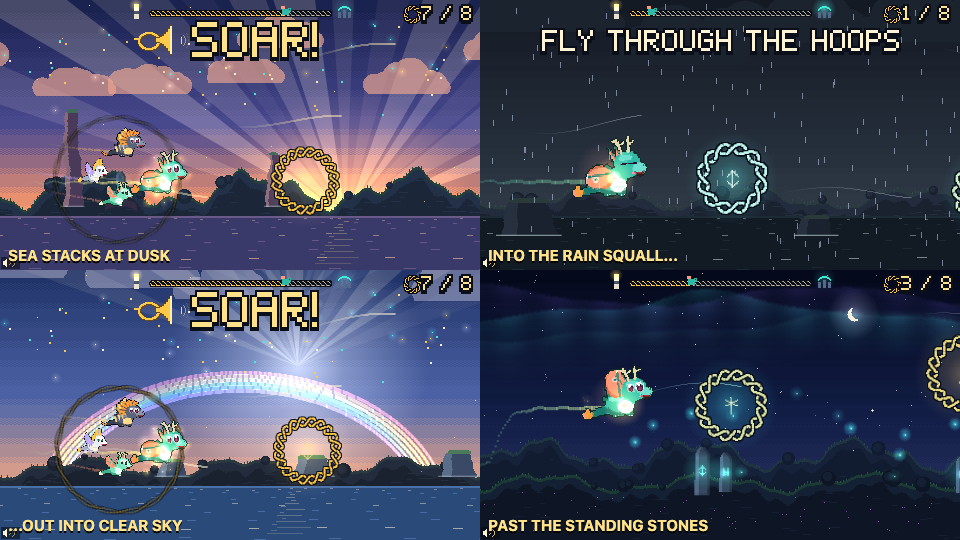
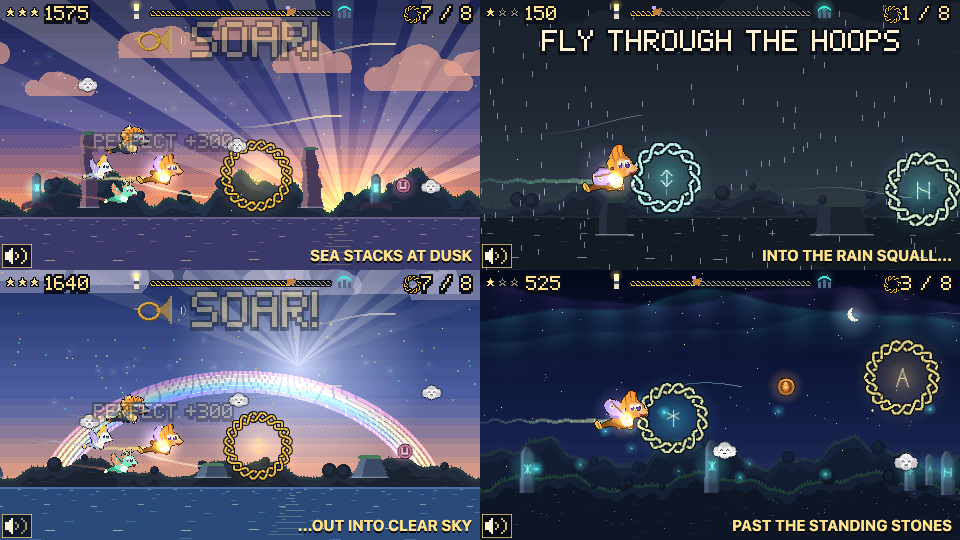
docs, pitch images and notes for levels, enemies, power-ups, score and the celebration

diff --git a/README.md b/README.md
@@ -1,8 +1,10 @@
 # Emberwing: The Way Home
 
-A 40-second lobby interactive for the Walla Walla Symphony's **Symphonicon** (Nov 5, Cordiner Hall), paired with *From the Motion Picture How to Train Your Dragon* (John Powell), played in Act II by the Walla Walla Symphony Youth Orchestra.
+A 45-second lobby interactive for the Walla Walla Symphony's **Symphonicon** (Nov 5, Cordiner Hall), paired with *From the Motion Picture How to Train Your Dragon* (John Powell), played in Act II by the Walla Walla Symphony Youth Orchestra.
 
-Emberwings are a kind of small dragon. Every guest rescues a different one: a young emberwing with its own name, colors, wings, horns, tail and personality (Pip sneezes sparks, Juniper loves loops, Bramble is shy at first...) is blown off course in a storm. The guest is the lighthouse keeper. Their light finds the dragon in the fog, teaches it to fly, and guides it home. Every dragon that makes it home joins the flock for the rest of the evening, and its flight path becomes a ribbon in the aurora. The flock on screen is always exactly the dragons people brought home tonight, and every 8th one gets a celebration.
+Emberwings are a kind of small dragon. Every guest rescues a different one: a young emberwing with its own name, colors, wings, horns, tail and personality (Pip sneezes sparks, Juniper loves loops, Bramble is shy at first...) is blown off course in a storm. The guest is the lighthouse keeper. Their light finds the dragon in the fog, teaches it to fly, and guides it home. Every dragon that makes it home joins the flock for the rest of the evening, and its flight path becomes a ribbon in the aurora. The flock on screen is always exactly the dragons people brought home tonight, and every 8th one sets off a celebration that leaves a new star in the sky.
+
+Three levels bring different ages together: **HATCHLING** (big slow hoops, for little kids and first-timers), **FLIER** (smaller, faster, moving hoops and a few silly enemies) and **STORM RIDER** (small moving hoops, tight timing, more enemies, wind gusts). Guests pick which lost dragon they'll find, fly through power-ups (fireball, speed burst, shield, magnet, a flock friend), and get a score with 1 to 3 stars. Nobody ever loses: on every level the dragon always gets home.
 
 - **One pointer, no clicks.** Mouse, touch, or a motion-capture prop all work. Every "button" is *hover and hold* (a knotwork ring fills in about 1 second).
 - **Sound on, but never needed.** An original folk-style score builds through the flight, with a real brass swell. Every cue is also visual, so the game plays and reads the same muted.
@@ -40,6 +42,7 @@ npm run build && npm run preview
 | `?mocapFlipX=1` / `?mocapFlipY=1` | Mirror mocap axes (camera facing the guest) |
 | `?debug` | Start with the debug overlay on |
 | `?scene=flight` | Jump straight to a scene (`attract`, `find`, `flight`, `home`, `end`) |
+| `?level=storm` | Play a scene on one level (`hatchling`, `flier`, `storm`) when you jump straight to it |
 | `?route=1` | Pin one flight route (`0` sea stacks, `1` rain squall, `2` standing stones) instead of taking turns |
 | `?seed=5` | Deterministic randomness, including which dragons get picked (for testing) |
 
@@ -69,22 +72,48 @@ Sound is on by default: an original folk-style tune in D mixolydian (harp, tin w
 
 - **Start the station with any key.** Browsers block sound until someone presses a key or clicks. When that's the case the laptop shows **PRESS ANY KEY TO START** and the lantern waits. That first key only starts the station (it doesn't also skip or reset), except **M**, which starts it muted.
 - **Phones** don't get that screen. The first touch turns the sound on.
-- **Speaker icon** in the bottom left corner: waves = sound running, an **X** = muted with **M**, slowly blinking waves = waiting for a key or a touch. The **D** overlay also shows the audio state.
+- **The speaker button** in the bottom left corner is a real control: **click or tap** it, or **hold the light on it** for 1.5 s (the mocap prop can't click). Holding only works on the screens where nobody is steering (attract, choosing a dragon, home, the card), so a guest's light wandering into the corner mid-flight can't mute the game; clicking works everywhere. It shows waves when sound is on, an **X** when it's off, and slowly blinking waves while the browser is still waiting for a key or a touch. The **D** overlay also shows the audio state.
 - Everything you hear has a visual version (hoop bursts, the found burst, the horn icon and rays at the swell, little chirp marks at each dragon's mouth), so a muted run is the same game.
+
+## Levels, enemies, power-ups and score (all in `src/config.js`)
+
+![The three levels](design/11-three-levels.png)
+
+Picking a level on the attract screen is how a run starts: hold the light on a row (the ring, the name or the hint all count). Someone who just holds the light still anywhere near the middle for 2 s gets HATCHLING. Every number below is in `LEVELS`, `ENEMY`, `POWER` and `SCORE`.
+
+| | HATCHLING | FLIER | STORM RIDER |
+|---|---|---|---|
+| hint on attract | FIRST TIME? | MOVING HOOPS | FOR THE BRAVE |
+| hoops | 8, one every 2 s | 13, one every 1.5 s | 20, one every 1 s |
+| hoop size | big (24-34 px) | smaller (14-18) | small (12-15) |
+| speed | 110 | 150 | 170 |
+| moving hoops | none | 60% bob up and down | 80%, further and faster |
+| enemies | none (smiling puffs to pop) | 2 clouds, 3 gust sprites, 2 fog wisps | 4 clouds, 5 gust sprites, 3 fog wisps |
+| wind gusts | no | no | 4, with arrows first |
+| power-ups | fireball, flock friend, magnet | shield, fireball, speed, magnet | shield, fireball, magnet, flock friend, speed |
+| 2 / 3 stars at | 900 / 1500 | 1760 / 3200 | 2200 / 3600 |
+
+**Enemies** are soft and silly, never scary: a *grumpy storm cloud* either parks in front of a hoop (go through the hoop's edge, or bump it) or sits on one and zaps it away with a small spark (that hoop isn't counted as your miss); a *gust sprite* shoves the dragon off course; a *fog wisp* sits on the next hoop and fades it out for a moment. A bump makes the dragon tumble for 0.7 s, costs 50 points and the streak, and then it can't be bumped again for a moment. There's no health and no game over.
+
+**Power-ups** are orbs you fly through, each with its own icon: *fireball* (4 s of the dragon popping whatever the light points near), *speed burst* (snappier steering, a rainbow trail, hoops worth double), *shield* (a bubble that takes one bump), *magnet* (pulls the dragon into the next hoops), *flock friend* (one of tonight's saved dragons swoops across and pops everything; it only shows up if somebody is home, so the numbers still match).
+
+**Score:** 100 a hoop, +50 through the middle, +25 per hoop already in the streak, +75 an enemy popped (+40 a puff), +25 a power-up, -50 a bump, +300 for clean flying (no bumps, at most one miss). The score and the stars earned so far are in the top left corner. The dragon card shows the score and 1 to 3 stars. The attract screen shows tonight's best flight for each level with the dragon's name, so a little kid's hatchling run can be a best flight too. **C** clears the bests with everything else.
 
 ## Timing (all in `src/config.js`)
 
 | Scene | Target | Notes |
 |---|---|---|
-| Attract | loop | 1 s hold on the lantern starts a run. Tonight's flock circles above the lantern, and a countdown shows how many more dragons until the next celebration |
+| Attract | loop | 1 s hold on a level starts a run (or a 2 s hold anywhere near the middle = HATCHLING). Tonight's flock loops through the sky, one bright star per celebration so far, a countdown to the next one, and the best flight per level |
+| Choose | up to 5 s | "WHO WILL YOU FIND?": three lost dragons with names and quirks, hold the light on one for 1.2 s. Picks the nearest one by itself after 5 s (`DUR.CHOOSE`). The other two stay lost for the next guests |
 | Title card | 1.3 s | "PIP IS LOST!" before Find, "NOW FLY HOME!" before the flight. The next scene is paused underneath (`DUR.TITLE`) |
 | Find | ~5-15 s | One instruction at a time, each up at least 2 s: MOVE YOUR LIGHT, FIND THE EYES, HOLD STILL (with a tiny framed demo). The hold ring sits on the eyes and pauses (never resets) when the light slips off. Hints get stronger with active pointing time: bigger eyes at 4 s, a dotted trail to the eyes at 6.5 s, the beam leaning toward them at 9 s. The dragon only comes to the light as a last resort at 10.5 s, and the guest still does the hold. Then a 1.6 s "YOU FOUND PIP!" moment |
-| Flight | ~2-5 s tutorial + 18 s | PIP FOLLOWS YOUR LIGHT (with an arrow), then FLY THROUGH THE HOOPS. Hoop 1 waits next to the dragon until you fly through it (5 s cap), then the timeline starts on the next beat: 7 more hoops, one every 2 s on the beat, always 8 in total with a "3 / 8" counter. Brass swell 12 s into the timeline (on a downbeat), where everyone already home tonight flies out to join you. Climb at 90%. Autopilot only after 3 s of a still pointer. Three routes take turns (sea stacks at dusk, a rain squall into clearing sky, low over standing stones under early aurora): only the scenery changes |
-| Home | 4.6 s | The guest's dragon lands in the circle with the rest of tonight's flock, its path lifts into the aurora, and the counter appears once it's on the new number. Every 8th dragon adds a 3.6 s celebration (`DUR.CELEBRATE`): the whole flock does a flyover, the aurora flares, "8 DRAGONS HOME!" |
-| Dragon card | 5 s | The rescued dragon's portrait and name, "THE 9TH EMBERWING HOME TONIGHT", its quirk, and "HEAR IT LIVE IN ACT II / LISTEN FOR THE BRASS!". Hold the small lantern to skip |
+| Flight | ~2-5 s tutorial + 18 / 24 / 26 s | PIP FOLLOWS YOUR LIGHT (with an arrow), then FLY THROUGH THE HOOPS. Hoop 1 waits next to the dragon until you fly through it (5 s cap), then the timeline snaps to the beat and the level's hoops come on the beat with a "3 / 8" counter. Brass swell 12 s into the timeline (on a downbeat), where everyone already home tonight flies out to join you. Climb at 90%. Autopilot only after 3 s of a still pointer. Three routes take turns (sea stacks at dusk, a rain squall into clearing sky, low over standing stones under early aurora): only the scenery changes |
+| Home | 4.6 s | The guest's dragon lands in the circle with the rest of tonight's flock, its path lifts into the aurora, and the counter appears once it's on the new number |
+| Celebration | 7.6 s, every 8th dragon | Every dragon saved tonight floods the screen in a spiral, fireworks in their colors, the aurora fills the whole sky, a full brass fanfare, a huge "8 DRAGONS HOME!" and this round's 8 names rolling past. Then a new star is born and flies up into the sky, where it stays for the night (`DUR.CELEBRATE`) |
+| Dragon card | 5 s | The rescued dragon's portrait and name, "THE 9TH EMBERWING HOME TONIGHT", its quirk, its stars and score, and "HEAR IT LIVE IN ACT II / LISTEN FOR THE BRASS!". Hold the small lantern to skip |
 | Scene fades | 0.4 s | `DUR.FADE` |
 
-Measured by the Playwright suite: **~40 s** for a guest who knows what to do, **~49 s** for one who never finds the dragon on their own (the test fails above 50 s), and about 49 s for a completely clueless guest who wanders the whole time (`tests/clueless.spec.js`, `tools/clueless.mjs`). The 8th, 16th, 24th... guest gets 3.6 s more for the celebration. Muted runs take exactly as long. **Idle reset:** 10 s without input during Find or Flight returns to attract. The assists only count time while someone is actually pointing, so an abandoned game resets instead of playing itself. Notes on this round of changes are in `notes/phase3.md`.
+Measured by the Playwright suite, a guest who knows what to do: **~43 s on HATCHLING, ~49 s on FLIER, ~51 s on STORM RIDER**. A guest who never finds the dragon on their own: ~52 s on HATCHLING, ~60 s on STORM RIDER. The 8th, 16th, 24th... guest gets 7.6 s more for the celebration. Muted runs take exactly as long. **Idle reset:** 10 s without input during Find or Flight returns to attract. The assists only count time while someone is actually pointing, so an abandoned game resets instead of playing itself. Notes on the last two rounds of changes are in `notes/phase3.md` and `notes/phase4.md`.
 
 **Slow laptops:** the game clock follows real time even when frames drop (it catches up in small steps, `LOOP` in `config.js`), so a choppy laptop doesn't make runs longer. Below about 4 fps it starts to slow down, and a frozen or backgrounded tab only moves the game forward a quarter second when it comes back. The YOURS! label after a run lasts `DUR.YOURS_LABEL` (15 s).
 
@@ -170,7 +199,7 @@ npm test
 
 This builds the site, serves it, and runs Playwright:
 
-- **`tests/fullrun.spec.js`**: a scripted guest plays a whole run by pointer only. It asserts 35-50 s, that the ribbon persists across a refresh, that a guest who never finds the dragon still finishes within 50 s, and that the dragon card can be skipped.
+- **`tests/fullrun.spec.js`**: a scripted guest plays a whole run by pointer only. It asserts 35-50 s, that the ribbon persists across a refresh, that a guest who never finds the dragon still finishes within 56 s (picking a level and a dragon included), and that the dragon card can be skipped.
 - **`tests/idle.spec.js`**: walking away during Find or Flight resets to attract after about 10 s.
 - **`tests/input.spec.js`**: the mocap pointer path, the clear confirmation, the portrait "rotate your phone" hint, and the touch offset.
 - **`tests/runs.spec.js`**: three flights in a row on one page all reach Home, and a cold first run and a second run both get all 8 hoops, each on screen at least 1.5 s before it arrives.
@@ -179,6 +208,13 @@ This builds the site, serves it, and runs Playwright:
 - **`tests/dragons.spec.js`**: 70 dragons in a row: no name repeats until the list runs out, and each looks different from the one before. The flock on attract, at the swell and at home always adds up to the saved dragons (0, 1, 3, 12, 13 and 20 home), the counter stays hidden until it lands, the 8th and 16th dragons get a celebration, **C** clears the flock, a cold first run of the night ends with exactly one dragon home, and the dragon card shows the right dragon and number.
 - **`tests/sound.spec.js`**: sound is on by default and **M** is remembered, a browser that blocks audio gets "press any key" and that key does nothing else, phones skip it and unlock on the first touch, a whole run works muted, and every hoop and the swell land on the beat.
 - **`tests/routes.spec.js`**: guests in a row get the three routes in turn with identical hoops, and every route plays all the way home.
+- **`tests/soundbutton.spec.js`**: the speaker button toggles sound by click, by tap (the first tap on a phone turns sound on), by holding the light on it (once per hold, never mid-flight), and by **M**.
+- **`tests/levels.spec.js`**: each lantern starts its level, holding still near the middle starts HATCHLING but a resting light never does, each level uses its numbers from `config.js` and really gets harder, every level always gets home, and how long a whole run takes on each level.
+- **`tests/choose.spec.js`**: three lost dragons, holding the light picks one and the other two stay lost for the next guest, it picks by itself after 5 s, and a walk-away puts the picked dragon back.
+- **`tests/score.spec.js`**: hoops, perfect hoops, streaks and clean flying score; stars follow the score; the card shows them; the best flight is kept per level, survives a refresh and **C** clears it.
+- **`tests/hazards.spec.js`**: no enemies on HATCHLING (puffs instead, plus a fireball and a flock friend), bumps tumble and cost a little but every run gets home, clouds zap hoops, wisps hide them, and each power-up does its job (a flock friend only when somebody is home).
+- **`tests/celebration.spec.js`**: the 8th dragon gets a 7-8 s celebration with every saved dragon and this round's names, it leaves a star that survives a refresh until **C**, and it plays calmer in reduced motion.
+- **`tests/ages.spec.js`**: a slow kid, a decent teen and a sharp player fly every level; it prints their scores and stars and checks the levels are really different (STORM RIDER gives the decent player one star).
 - **`tests/framerate.spec.js`**: at 8 fps the game clock still keeps real time, a frozen tab only nudges the game forward, and a full run at ~8 fps lands within 2 s of a normal one.
 - **`tests/motion.spec.js`**: reduced motion follows the OS setting, **G** cycles and is remembered, no shake and a calmer camera when reduced.
 - **`tests/calibration.spec.js`**: a deliberately misaligned pretend rig is fixed by **K**, the calibration survives a refresh, Delete clears it, and a mouse isn't affected.
@@ -191,12 +227,13 @@ The tests press a key right after loading, the same way the operator starts the 
 ```
 src/config.js          every tunable number (durations, tempo, thresholds, palette)
 src/main.js            loop, letterbox scaling, test hooks
-src/input/             Input (one pointer), adapters (mouse/touch/mocap/keys), OneEuroFilter, Dwell
-src/core/              SceneManager, Beat (120 BPM), Camera, Particles, AuroraStore (ribbons + dragons), Operator,
-                       dragons (seeded dragon parts + names), Audio (mixing, unlock, scheduler), synth (instruments), score (the tune)
+src/input/             Input (one pointer), adapters (mouse/touch/mocap/keys), OneEuroFilter, Dwell, SoundButton
+src/core/              SceneManager, Beat (120 BPM), Camera, Particles, AuroraStore (ribbons + dragons + bests), Operator,
+                       dragons (seeded dragon parts, names, the lost pool), Points (score + stars), Hazards (enemies,
+                       power-ups, gusts), Audio (mixing, unlock, scheduler), synth (instruments), tune (the music)
 src/art/               font (pixel font), knotwork, dragon (parts-based dragon drawing), quirks, flock, routes (the 3 flights),
-                       world, aurora, icons, sprites
-src/scenes/            Attract, FindDragon, Flight, Home, EndCard (the dragon card)
+                       critters (enemies + power-ups), world, aurora (+ celebration stars), icons, sprites
+src/scenes/            Attract (level picker), Choose, FindDragon, Flight, Home, Celebration, EndCard (the dragon card)
 ```
 
 Everything renders into a 480×270 buffer that is scaled up with nearest-neighbor (4× on a 1080p projector), so it stays crisp from across the lobby.

diff --git a/DESIGN_INTENT.md b/DESIGN_INTENT.md
@@ -16,7 +16,15 @@ A guest steps onto the footprints in front of a 10-foot projection, raises a big
 
 **Every guest rescues a different dragon.** Emberwings are a kind of small dragon, and each one is built from parts: body color, wing shape, horns or frill or antlers, tail tip, eyes, size, and a little personality (one sneezes sparks, one loves loops, one is shy at first). Each gets its own name, never repeated in a night. Your dragon is yours: you see its name on the title card, it flies with its own quirks, and at the end you get its card.
 
-**The flock is everyone's dragons.** Every dragon that makes it home stays for the rest of the evening. The flock circling on the attract screen, swooping in at the brass swell, and circling the stones at home is always exactly the dragons people brought home tonight, so the number on screen and the dragons you can count always agree. Every 8th dragon home sets off a celebration.
+**Three levels, one sky.** One of our success criteria is bringing different age groups together. HATCHLING keeps the big, slow, forgiving hoops for little kids and first-timers. FLIER (smaller, faster, moving hoops and a few silly enemies) and STORM RIDER (small moving hoops, tight timing, more enemies and wind gusts) give older kids, teens and adults a real challenge. Every level ends the same way: the dragon gets home and joins the same flock, so a grandparent, a teenager and a four-year-old all add to one shared sky. Nobody ever loses. Enemies (grumpy storm clouds, gust sprites, fog wisps) only make scoring harder: a bump is a dizzy tumble and a few points, never the end. Power-ups you fly through (fireball, speed burst, shield, magnet, and a flock friend who swoops in) give every level some spectacle, little kids included.
+
+![](design/11-three-levels.png)
+
+**A score worth beating.** Hoops, streaks, popped enemies and clean flying add up to a score with 1 to 3 stars. The attract screen shows tonight's best flight for each level with the dragon's name, so a kid's easy run can be a best flight too, and the line has something to talk about.
+
+![](design/10-who-will-you-find.png)
+
+**The flock is everyone's dragons.** Every dragon that makes it home stays for the rest of the evening. The flock circling on the attract screen, swooping in at the brass swell, and circling the stones at home is always exactly the dragons people brought home tonight, so the number on screen and the dragons you can count always agree. Every 8th dragon home sets off a real celebration: every dragon saved tonight floods the screen in a spiral, fireworks burst in their colors, the aurora fills the sky, a full brass fanfare plays and this round's eight names roll past. Then a new star is born and stays in the sky for the rest of the night, so the sky counts the celebrations.
 
 The line behind them is the audience. While they wait, a storybook on screen turns its own pages, showing the dragon that's lost right now, and a "ghost" player shows exactly what to do. Above it, tonight's flock circles and a countdown says how many more dragons until the next celebration. By the time their turn comes, they already know how to play.
 
@@ -24,11 +32,13 @@ The line behind them is the audience. While they wait, a storybook on screen tur
 
 | Beat | Time | What the guest sees and does |
 |---|---|---|
-| **Next Flyer** | loop | A storybook shows the storm, *PIP IS LOST*, a ghost player demo, and "Hear it in Act II". Tonight's flock circles above the lantern and a countdown reads *3 MORE TO THE NEXT CELEBRATION*. The screen says *STEP HERE · RAISE YOUR LIGHT*. Holding the light on the lantern for 1 s starts the story. |
+| **Next Flyer** | loop | A storybook shows the storm, the three lost dragons (*WHO WILL YOU FIND?*), a ghost player demo, and "Hear it in Act II". Tonight's flock loops through the sky with one bright star per celebration, and a countdown reads *3 MORE TO THE NEXT CELEBRATION*. Three lanterns are the three levels, each with a badge, a hint (*FIRST TIME?*, *MOVING HOOPS*, *FOR THE BRAVE*) and tonight's best flight. Holding the light on one for 1 s starts the story (just holding it still near the middle starts HATCHLING). |
+| **Who will you find?** | ~2-5 s | Three lost dragons side by side with their names and quirks. The guest holds the light on one to pick it, or one is picked for them after 5 s. The other two stay lost for the guests after. |
 | **1. Find** | ~6-15 s | A title card: *PIP IS LOST!* Then a dark, rainy cliff in the fog. The guest's lantern beam, shining from the lighthouse (a nod to the bat-signal proof of concept), cuts through the fog. One instruction at a time, each with a tiny demo: *MOVE YOUR LIGHT*, then *FIND THE EYES*, then *HOLD STILL*. A knotwork ring on the eyes fills while the light is on them and simply pauses if it slips off. If someone is struggling, the hints get stronger (bigger eyes, a trail of light to them, the beam leaning their way), but the guest always does the finding. Then everything holds still for **YOU FOUND PIP!** as the dragon crouches, pops up and wiggles, wings lit again, and a warm chord plays. |
-| **2. First Flight** | ~20 s | A title card: *NOW FLY HOME!* Then *PIP FOLLOWS YOUR LIGHT*, with an arrow from the light to the dragon, and *FLY THROUGH THE HOOPS*. The first hoop waits right next to the dragon until the guest steers through it. Then 7 more arrive on the beat, one every two seconds, each with a chime, a "3 / 8" counter, and a track showing the journey from the lighthouse to home. Three routes take turns between guests: out past sea stacks as the storm turns to dusk and gold, into a rain squall and out into clear sky with a rainbow, or low over standing stones while the aurora comes out. The dragon cheers at every hoop, does a barrel roll after three in a row, and shows off its own quirk. At the **brass swell** the music and the sky hold their breath, then the brass bursts in with golden rays, a knotwork shockwave and confetti, and **everyone already home tonight swoops in**, each with a chirp. The first guest of the night does it alone. A missed hoop is never a failure: the dragon does a happy loop and the hoop's sparkles find it anyway. |
+| **2. First Flight** | ~20 s | A title card: *NOW FLY HOME!* Then *PIP FOLLOWS YOUR LIGHT*, with an arrow from the light to the dragon, and *FLY THROUGH THE HOOPS*. The first hoop waits right next to the dragon until the guest steers through it. Then the rest arrive on the beat, each with a chime, a "3 / 8" counter, a score with stars filling in, and a track showing the journey from the lighthouse to home. On FLIER and STORM RIDER they're smaller and faster, some bob up and down, and grumpy clouds, gust sprites and fog wisps get in the way; on STORM RIDER wind gusts shove the dragon too, with big arrows first. Glowing orbs are power-ups. Three routes take turns between guests: out past sea stacks as the storm turns to dusk and gold, into a rain squall and out into clear sky with a rainbow, or low over standing stones while the aurora comes out. The dragon cheers at every hoop, does a barrel roll after three in a row, and shows off its own quirk. At the **brass swell** the music and the sky hold their breath, then the brass bursts in with golden rays, a knotwork shockwave and confetti, and **everyone already home tonight swoops in**, each with a chirp. The first guest of the night does it alone. A missed hoop is never a failure: the dragon does a happy loop and the hoop's sparkles find it anyway. |
 | **3. Home** | ~5 s | The guest's dragon lands in a circle with tonight's flock above the standing stones under the northern lights, and they chirp hello one by one. The path the guest flew is drawn across the sky like a comet, then lifts and becomes a **new aurora ribbon that stays for the rest of the evening**. A shimmer runs across the whole aurora and the counter lands on the new number (*37 DRAGONS HOME TONIGHT*). **Every 8th dragon** adds a few seconds: the whole flock breaks out for a flyover, the aurora flares and *8 DRAGONS HOME!* fills the sky. |
-| **4. The dragon card** | 5 s | A card for the dragon the guest rescued, made for a phone photo: portrait, name, *THE 9TH EMBERWING HOME TONIGHT*, its quirk, and *HEAR IT LIVE IN ACT II · How to Train Your Dragon · Listen for the brass!* Then the screen returns to *Next Flyer*. The full credit (Walla Walla Symphony Youth Orchestra) is on the storybook's music page for the line to read while they wait. |
+| **3b. Celebration** | 7.6 s, every 8th | Every dragon saved tonight spirals across the screen, fireworks in their colors, the aurora fills the sky, a full fanfare, *8 DRAGONS HOME!* and this round's names rolling past. A new star is born and flies up into the sky to stay. |
+| **4. The dragon card** | 5 s | A card for the dragon the guest rescued, made for a phone photo: portrait, name, *THE 9TH EMBERWING HOME TONIGHT*, its quirk, its stars and score, and *HEAR IT LIVE IN ACT II · How to Train Your Dragon · Listen for the brass!* Then the screen returns to *Next Flyer*. The full credit (Walla Walla Symphony Youth Orchestra) is on the storybook's music page for the line to read while they wait. |
 
 ## The one feeling
 
@@ -47,7 +57,7 @@ It should feel warm, windswept, hopeful and proud. Every guest succeeds, and eve
 - **Prop:** a big cardboard lantern tracked by motion capture drives the on-screen light. A mouse or touch works as a backup, with no code changes.
 - **Operator:** one laptop running the game locally (no internet needed). Press any key once to start the station (browsers need that before they allow sound). Hidden keys: fullscreen, reset, skip, debug, clear, sound, calibrate, reduced motion. A small speaker icon in the corner shows whether sound is running.
 - **Sound:** on by default through the laptop or the room's speakers, but never required. The lobby is loud, so every sound has a visual twin and the game reads exactly the same muted (**M**).
-- **Throughput:** about 40 to 50 s per guest plus a short handoff, so roughly 30 guests per 30-minute shift, or about 90 over the 90-minute pre-show. The game resets itself after 10 s without input.
+- **Throughput:** about 45 to 55 s per guest plus a short handoff (a bit longer on the harder levels), so roughly 28 guests per 30-minute shift, or about 85 over the 90-minute pre-show. The game resets itself after 10 s without input.
 - **Accessibility:** no flashing faster than 3 times per second, no fail states, and color is never the only signal (brightness, shape and motion carry every cue). It works seated, and a phone version works in landscape via the public URL.
 
 ## How it connects to the music

diff --git a/PLAYTEST.md b/PLAYTEST.md
@@ -26,9 +26,12 @@ Write results in the blanks. Anything that fails goes in the notes at the bottom
 
 Stand 15 ft from the wall (measure it), at the far edge of where the line will be.
 
-- [ ] Attract: NEXT FLYER, STEP HERE, RAISE YOUR LIGHT, the storybook captions, "N DRAGONS HOME TONIGHT", "N MORE TO THE NEXT CELEBRATION". Can you tell the circling dragons apart?
+- [ ] Attract: NEXT FLYER, STEP HERE, RAISE YOUR LIGHT, the three level rows (HATCHLING / FIRST TIME?, FLIER / MOVING HOOPS, STORM RIDER / FOR THE BRAVE) and their best flights, the storybook captions, "N DRAGONS HOME", "N MORE TO THE NEXT CELEBRATION"
+- [ ] Can you tell the three level badges apart (egg, wing, storm cloud)? Can you see the small dragons looping along the top?
+- [ ] WHO WILL YOU FIND?: the three names and quirks
 - [ ] Find: PIP IS LOST! (the dragon's name changes every run), FIND THE EYES, HOLD STILL. Can you see the two glowing eyes in the fog?
-- [ ] Flight: PIP FOLLOWS YOUR LIGHT, FLY THROUGH THE HOOPS, SOAR!, the lighthouse-to-home track along the top
+- [ ] Flight: PIP FOLLOWS YOUR LIGHT, FLY THROUGH THE HOOPS, SOAR!, the lighthouse-to-home track along the top, the score and stars top left, the "+150" numbers
+- [ ] On STORM RIDER: can you see the small hoops, the enemies (grumpy cloud, gust sprite, fog wisp) and the power-up orbs from 15 ft? Do the gust arrows show before the push?
 - [ ] Home: PIP IS HOME!, the counter, HEAR IT LIVE IN ACT II
 - [ ] Dragon card: the name, THE 9TH EMBERWING HOME TONIGHT, the quirk, LISTEN FOR THE BRASS!. Take a phone photo of it from where a guest would stand. Is it readable in the photo?
 - [ ] Anything washed out by the room lights? Note it with where you were standing: ____
@@ -50,12 +53,16 @@ Start the stopwatch the moment the lantern ring finishes filling. Stop it when t
 - [ ] Run 1, someone who knows the game: ____ s (expect about 40)
 - [ ] Run 2, someone who "can't find it" (wave the light around the top of the screen): ____ s (expect about 49, around 50 at most)
 - [ ] Run 3, a first-timer who has never seen it (grab someone, explain nothing): ____ s, and write down the first moment they looked confused: ____
+- [ ] Run 4, a teen or adult on STORM RIDER: ____ s, stars ____. Was it hard but fair? Did anyone feel like they "lost"? (They shouldn't: the dragon always gets home)
+- [ ] Run 5, a little kid on HATCHLING: stars ____. Did they get the fireball and pop the puffs?
+- [ ] Pick a dragon by holding the light on it, and once let it pick by itself (wait ~5 s)
 - [ ] Do the instructions (MOVE YOUR LIGHT / FIND THE EYES / HOLD STILL, then EMBER FOLLOWS YOUR LIGHT / FLY THROUGH THE HOOPS) read from 15 ft? ____
 - [ ] Does the first-timer get through the waiting tutorial hoop on their own? ____
 - [ ] Ember follows the light without lag or jitter? ____
 - [ ] The dragon count went up by one after each run, and one more dragon is circling on the attract screen
 - [ ] Each run had a different dragon (name and look) and the routes took turns: sea stacks, rain squall, standing stones
-- [ ] Play until the count reaches 8 (or press **S** to skip through runs): the 8th run gets the celebration flyover and "8 DRAGONS HOME!"
+- [ ] Play until the count reaches 8 (or press **S** to skip through runs): the 8th run gets the celebration (spiral of every dragon, fireworks, names rolling past, "8 DRAGONS HOME!"), and afterwards a new bright star stays in the sky on the attract screen
+- [ ] The best flight for the level shows up on its attract row after a run
 
 ## 6. Idle reset
 
@@ -70,6 +77,8 @@ Start the stopwatch the moment the lantern ring finishes filling. Stop it when t
 - [ ] Does the brass swell land right when SOAR! appears (not late)? ____
 - [ ] Too loud or too quiet for the lobby? Set the laptop or room volume so it's clear at the footprints but doesn't fight the youth orchestra: ____
 - [ ] Press **M**: toast says SOUND OFF, the speaker icon shows an X, silence. Refresh: still off. Press **M** again to turn it back on
+- [ ] Click the speaker in the bottom left corner: it toggles. Hold the mocap light on it for about 1.5 s on the attract screen: it toggles (a ring fills and it says HOLD TO MUTE)
+- [ ] The celebration fanfare: big enough to make the line cheer, not painful?
 - [ ] On a phone: no "press any key" screen, and sound starts on the first touch
 
 ## 8. Other operator keys

diff --git a/notes/phase4.md b/notes/phase4.md
@@ -1,0 +1,57 @@
+# phase 4: levels, enemies, power-ups, score, a bigger celebration
+
+goal: bring different age groups together. hatchling stays the gentle game for little kids, flier
+and storm rider give older kids, teens and adults a real challenge. nobody can lose: on every level
+the dragon always gets home.
+
+## what changed
+1. **the speaker is a real button.** click or tap toggles sound, holding the light on it for 1.5s
+   toggles it too (once per hold, and not during find or the flight so a guest's beam can't mute
+   it by accident). the first tap on a phone turns sound on instead of muting. M still works.
+2. **three levels** on the attract screen (`LEVELS` in config.js). each row is a big dwell target:
+   badge in a ring, name, hint, tonight's best. holding the light still near the middle for 2s
+   starts hatchling, but only after the device has really moved (a prop resting on a table, or a
+   rig reconnecting, can't start runs on its own).
+3. **choose your dragon.** three lost dragons, hold the light on one ("who will you find?"), picks
+   by itself after 5s. the other two stay lost for the next guests, a walk-away puts the picked one
+   back at the front.
+4. **enemies** (flier, storm rider): grumpy clouds park in front of a hoop or zap one away (not
+   counted as your miss), gust sprites shove, fog wisps hide the next hoop. a bump = 0.7s tumble,
+   -50 and the streak, then a moment of grace. no health, no game over.
+5. **power-ups**: fireball (pops whatever the light points near), speed burst (double points,
+   rainbow trail), shield (one bump), magnet, flock friend (only when somebody is home, so the
+   numbers still match). hatchling gets smiling puffs to pop, a fireball and a flock friend.
+6. **score + stars**: hoops, perfect hoops, streaks, pops, clean flying. 1-3 stars per level. on
+   the dragon card, and the best flight per level on attract. C clears it.
+7. **celebration** is its own 7.6s scene now: every saved dragon in a spiral, fireworks in their
+   colors, the whole sky full of aurora, a full fanfare, this round's 8 names rolling past, and a
+   new star that stays in the sky all night.
+8. renamed the music file `score.js` -> `tune.js` so "score" only means points.
+
+## run times (scripted guest who knows what to do, game clock)
+| level | run | never finds the dragon |
+|---|---|---|
+| hatchling | 42.6s | 52.1s |
+| flier | 48.6s | |
+| storm rider | 50.6s | 60.1s |
+
+every 8th guest: +7.6s for the celebration.
+
+## mixed ages (`tests/ages.spec.js`, average of the same 4 hoop layouts per level)
+| level | slow kid | decent teen | sharp |
+|---|---|---|---|
+| hatchling | 2398 ★★★ (8/8) | 2410 ★★★ (8/8) | 2385 ★★★ (8/8) |
+| flier | 1675 ★ (8.5/13) | 1819 ★★ (8.8/13) | 3506 ★★★ (11.3/13) |
+| storm rider | 913 ★ (8/20) | 1500 ★ (8.8/20) | 3519 ★★ (16/20) |
+
+one layout on its own swings a lot (the decent teen scored anywhere from 1200 to 2600 on flier), so
+the test flies every guest through the same 4 layouts with the random numbers and the beat clock
+reset, and compares averages. it's exact and the same every run.
+
+the scripted guests are bots, so take the numbers as relative. the "sharp" one reads moving hoops
+ahead and dodges perfectly, a real sharp teenager will land somewhere between teen and sharp.
+
+## things nobody has checked yet
+- whether real kids, teens and adults feel the levels the same way the bots do
+- the celebration fanfare and the new sound effects on the lobby speakers
+- whether the small storm rider hoops and the enemies read from 15ft

diff --git a/CREDITS.md b/CREDITS.md
@@ -17,8 +17,9 @@ We also reviewed **Sprout Lands** by Cup Nooble ("Assets from Sprout Lands, by C
 
 ## Original work (made for this project)
 - **The dragons:** original emberwing designs built from parts in code (`src/core/dragons.js`, `src/art/dragon.js`): body colors, wing shapes, horns, frills, antlers, crests, tail tips, markings and personality quirks. The 56 names are our own list, picked to avoid anything from the films.
+- **The critters and power-ups:** grumpy storm clouds, gust sprites, fog wisps, smiling puff clouds and the power-up orbs, all drawn in code (`src/art/critters.js`).
 - **World art:** cliffs, lighthouse, sea stacks, standing stones, invented rune glyphs (not a real alphabet), clouds, fog, aurora, knotwork, icons.
 - **Pixel font:** a hand-made 5×7 font drawn in code (`src/art/font.js`).
-- **Music and sound effects:** an original folk-style tune in D mixolydian and every sound effect (harp, tin whistle, drone, hand drum, strings, brass, bells, chirps, wind and rain), composed for this project and synthesized live with Web Audio (`src/core/score.js`, `src/core/synth.js`). No recordings or samples are used.
+- **Music and sound effects:** an original folk-style tune in D mixolydian and every sound effect (harp, tin whistle, drone, hand drum, strings, brass, bells, chirps, wind and rain), composed for this project and synthesized live with Web Audio (`src/core/tune.js`, `src/core/synth.js`). No recordings or samples are used.
 
 No characters, names, places, logos, dragon designs or music from the *How to Train Your Dragon* films are used.
